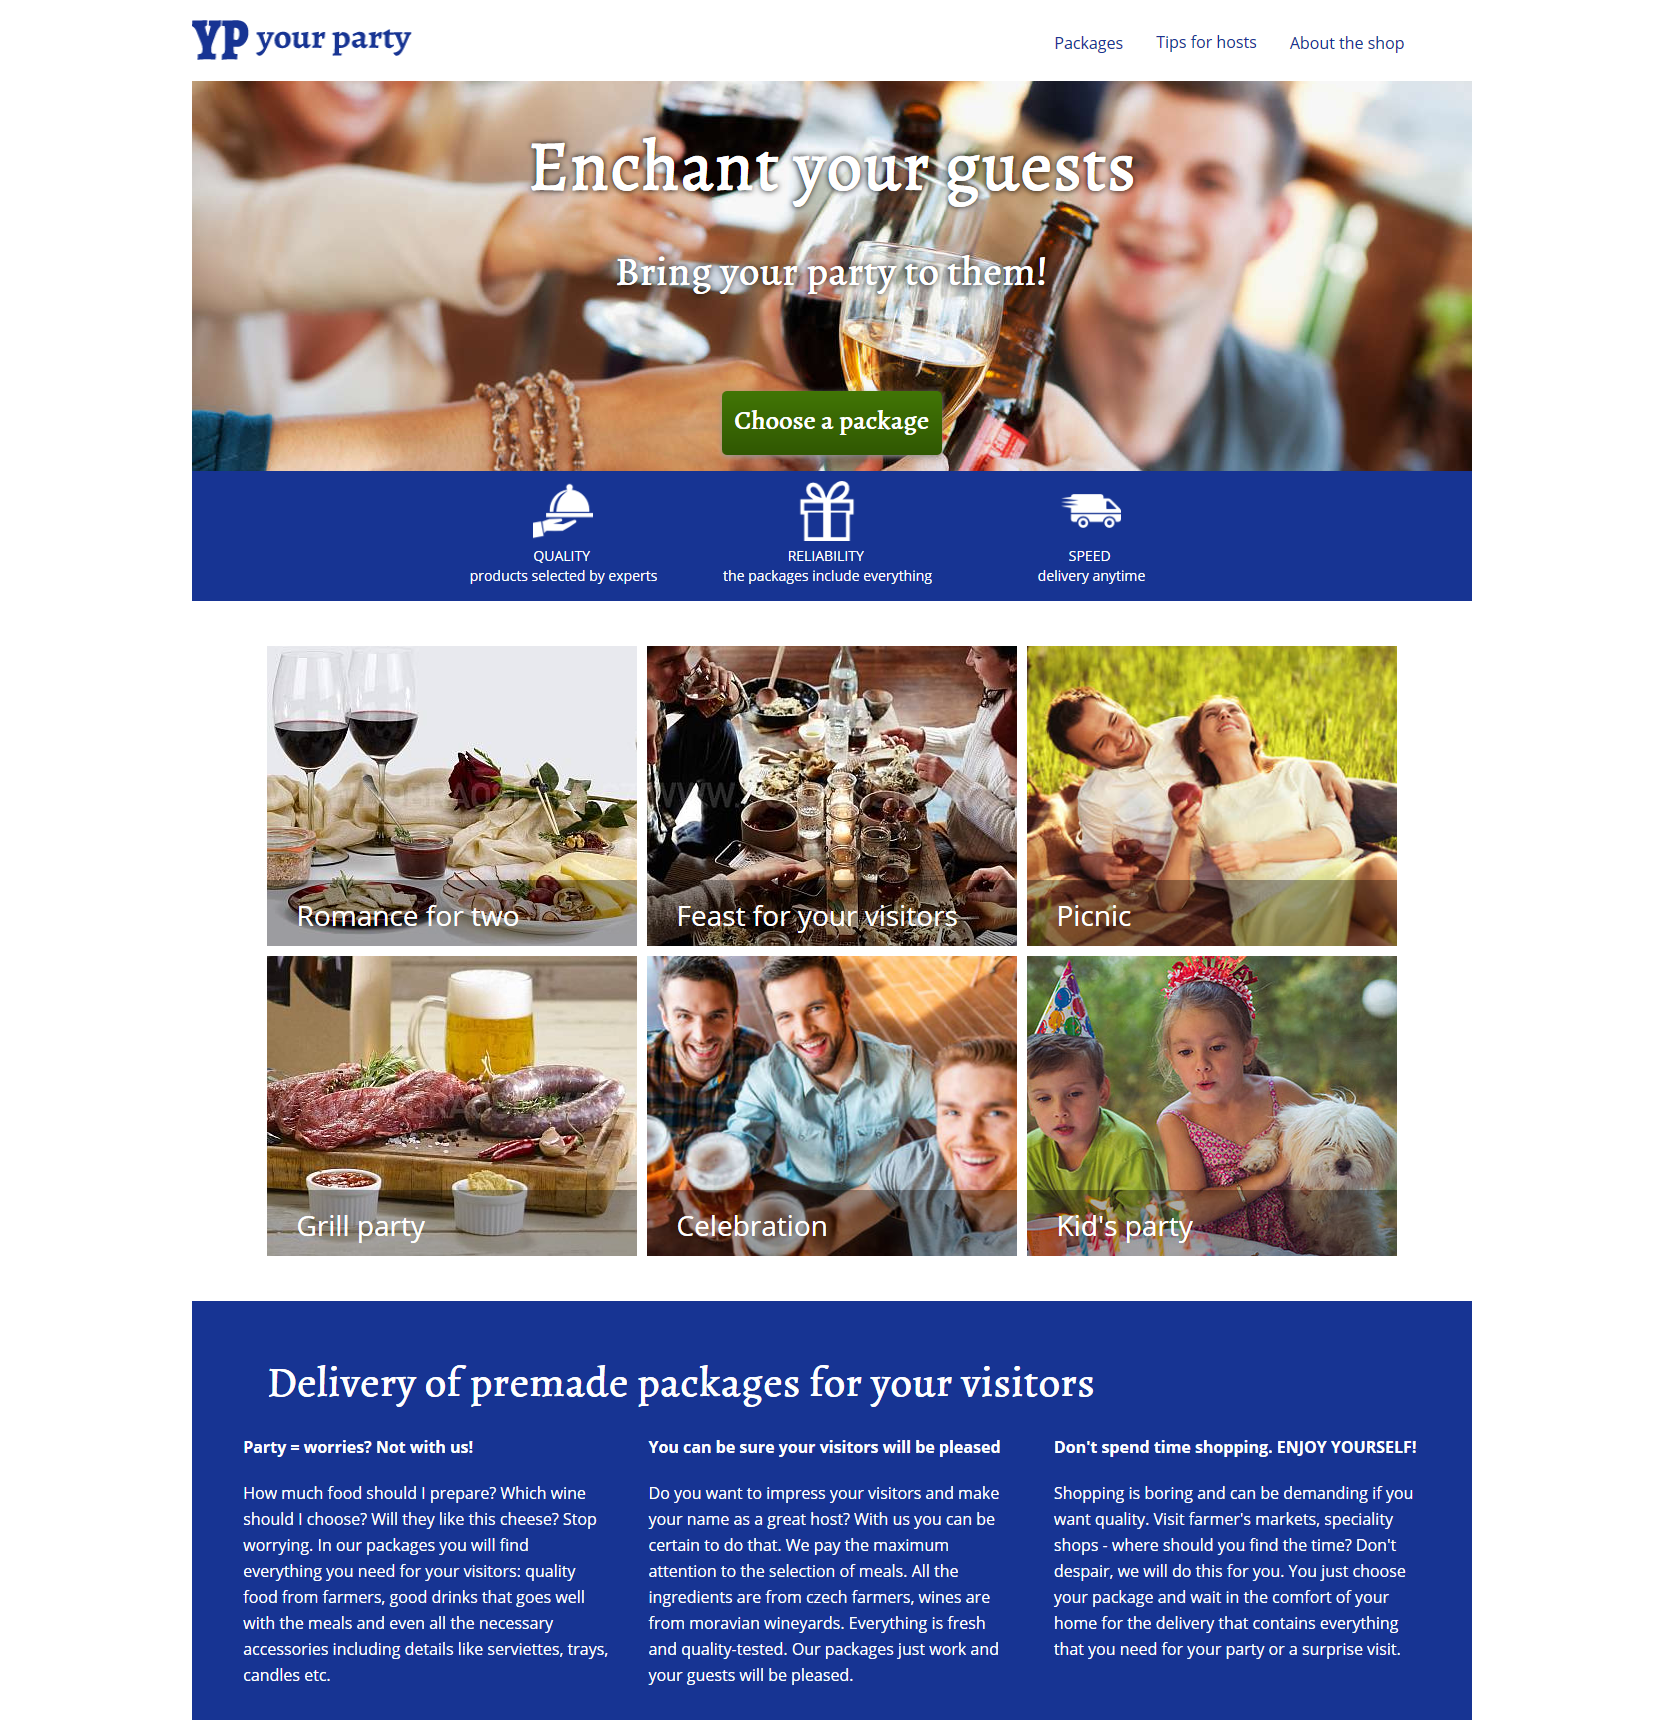
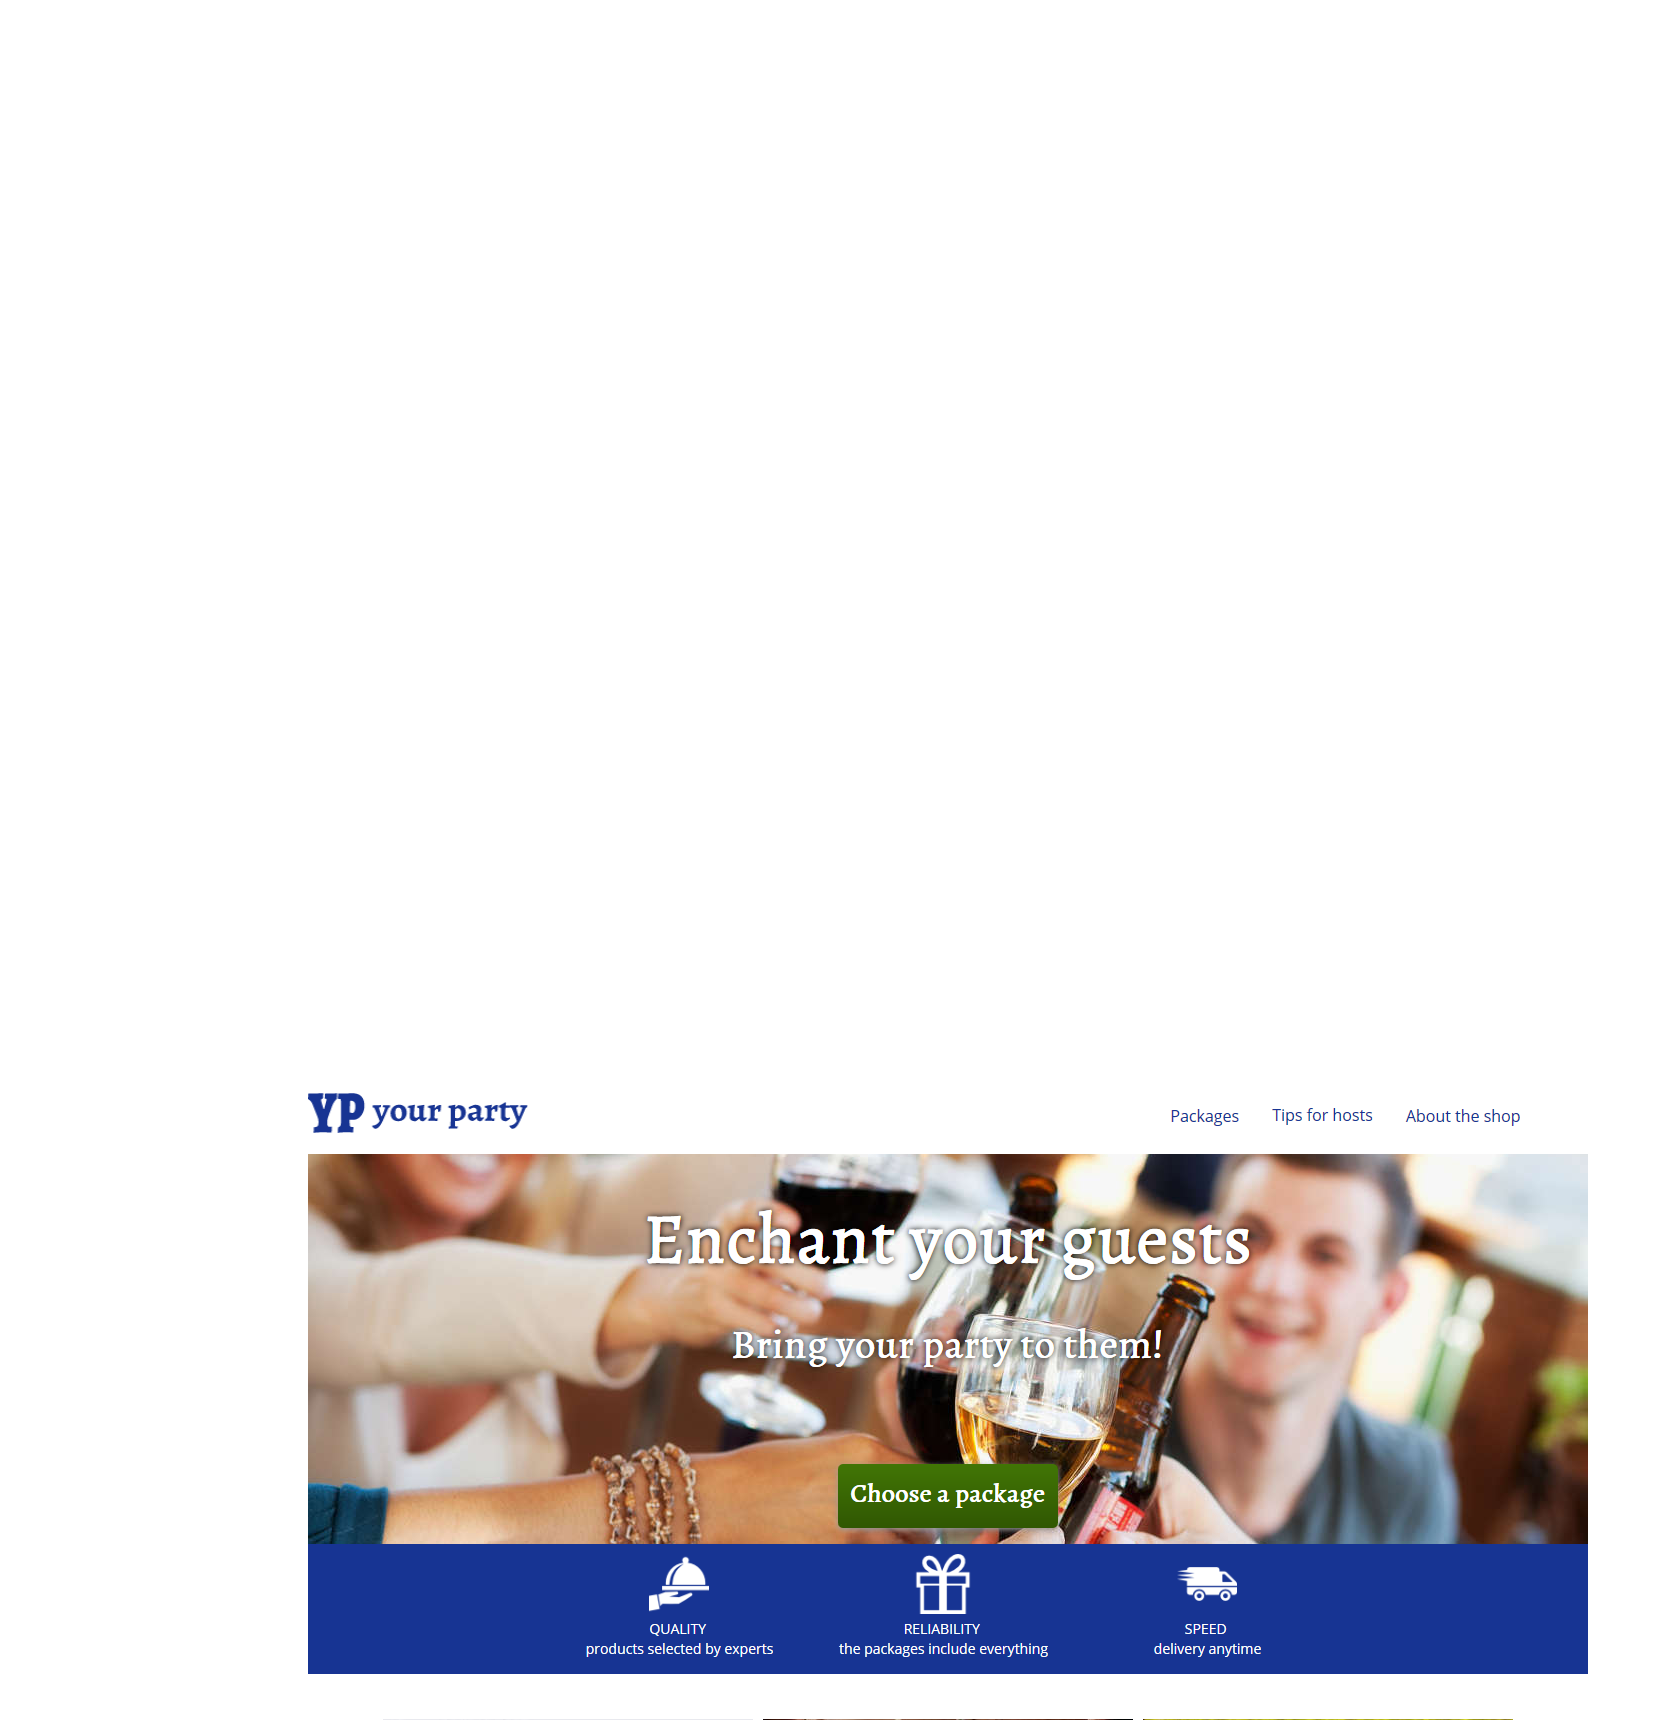
fixed hero link

diff --git a/src/styles/layout/nav.scss b/src/styles/layout/nav.scss
@@ -54,14 +54,14 @@ nav {
     @include lg {
         position: absolute; 
         width:400px;
-        top:10px;
-        right:10px;
+        top:30px;
+        right:48px;
     }
     @include md {
         position: absolute; 
         width:400px;
-        top:10px;
-        right:10px;
+        top:30px;
+        right:48px;
     }
 } nav .cell {
     text-align:center; 

diff --git a/src/styles/layout/page.scss b/src/styles/layout/page.scss
@@ -24,7 +24,7 @@ html {
         rgba(0, 0, 0, 0.0), 
         rgba(0, 0, 0, 0.0)
     ),
-    url(../../../dist/images/enchant-your-guests.jpg) 65% no-repeat ;
+    url(../../dist/images/enchant-your-guests.jpg) 65% no-repeat ;
 } .enchant {
     display:flex;
     @include center;
